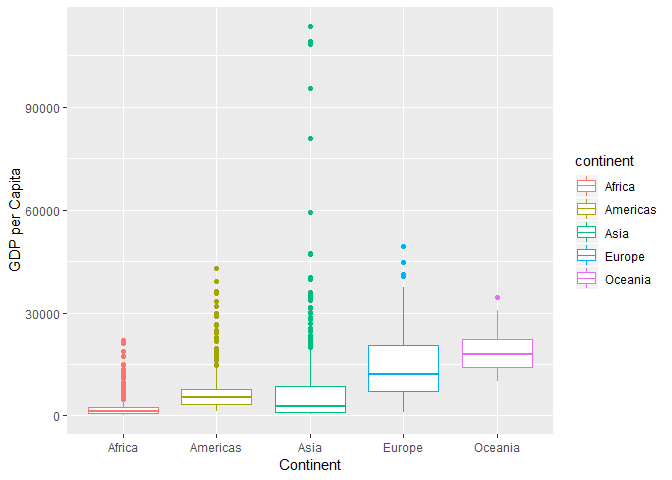
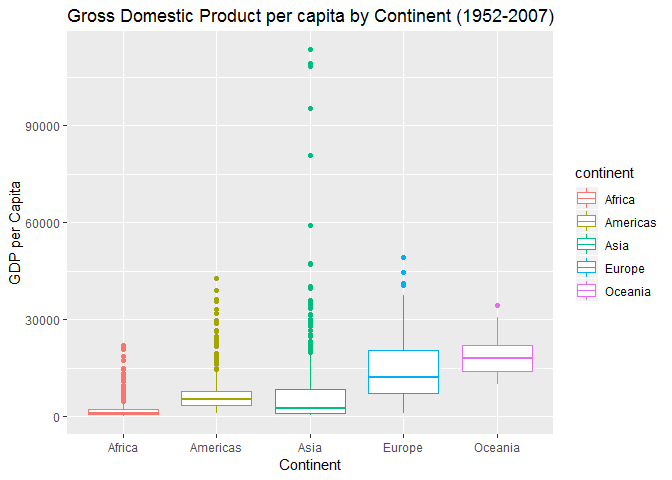
Finished 3 tasks.

diff --git a/hw03-schignel.md b/hw03-schignel.md
@@ -33,14 +33,15 @@ GDPmm <- gapminder %>% # begin pipe and assign output to variable "GDP"
 knitr::kable(GDPmm)
 ```
 
-| continent    |    max.gdp|     min.gdp|
-|:-------------|----------:|-----------:|
-| Africa       |   21951.21|    241.1659|
-| Americas     |   42951.65|   1201.6372|
-| Asia         |  113523.13|    331.0000|
-| Europe       |   49357.19|    973.5332|
-| Oceania      |   34435.37|  10039.5956|
-| Plot using a |   barchart|            |
+| continent |    max.gdp|     min.gdp|
+|:----------|----------:|-----------:|
+| Africa    |   21951.21|    241.1659|
+| Americas  |   42951.65|   1201.6372|
+| Asia      |  113523.13|    331.0000|
+| Europe    |   49357.19|    973.5332|
+| Oceania   |   34435.37|  10039.5956|
+
+Plot using a barchart
 
 ``` r
 ggplot(GDPmm, aes(continent, max.gdp))+
@@ -71,17 +72,16 @@ GDP_spread <- gapminder %>%
             var.gdp = var(gdpPercap),
             sd.gdp = sd(gdpPercap)
             )
-GDP_spread
+knitr::kable(GDP_spread)
 ```
 
-    ## # A tibble: 5 x 4
-    ##   continent mean.gdp    var.gdp sd.gdp
-    ##   <fct>        <dbl>      <dbl>  <dbl>
-    ## 1 Africa       2194.   7997187.  2828.
-    ## 2 Americas     7136.  40918591.  6397.
-    ## 3 Asia         7902. 197272506. 14045.
-    ## 4 Europe      14469.  87520020.  9355.
-    ## 5 Oceania     18622.  40436669.  6359.
+| continent |   mean.gdp|    var.gdp|     sd.gdp|
+|:----------|----------:|----------:|----------:|
+| Africa    |   2193.755|    7997187|   2827.930|
+| Americas  |   7136.110|   40918591|   6396.764|
+| Asia      |   7902.150|  197272506|  14045.373|
+| Europe    |  14469.476|   87520020|   9355.213|
+| Oceania   |  18621.609|   40436669|   6358.983|
 
 ``` r
 gapminder %>% 
@@ -89,7 +89,8 @@ gapminder %>%
   ggplot(aes(continent, gdpPercap)) +
   geom_boxplot(aes(color = continent))+
   xlab("Continent")+
-  ylab("GDP per Capita")
+  ylab("GDP per Capita")+
+  ggtitle("Gross Domestic Product per capita by Continent (1952-2007)")
 ```
 
 ![](hw03-schignel_files/figure-markdown_github/boxplot-1.png)
@@ -99,11 +100,104 @@ However, a violin plot will provide a better sense of the spread:
 ``` r
 gapminder %>% 
   group_by(continent) %>% 
-  ggplot(aes(continent, gdpPercap)) +
+  ggplot(aes(continent, gdpPercap))+
   geom_jitter(aes(color = continent, alpha=0.1))+
   geom_violin(aes(color = continent))+
   xlab("Continent")+
-  ylab("GDP per Capita")
+  ylab("GDP per capita")+
+  ggtitle("Gross Domestic Product per capita by Continent (1952-2007)")
 ```
 
 ![](hw03-schignel_files/figure-markdown_github/violin-1.png)
+
+Here we see that GDP per capita varies widely within continents. This is particularly true for Asia, which has a far more extreme range than any of the other continents.
+
+### 3. How is life expectancy changing over time on different continents?
+
+For this question, we will first:
+
+``` r
+lexp <- gapminder %>% 
+  group_by(continent, year) %>%
+  summarize(mean.lexp = mean(lifeExp)) %>% 
+  arrange(year)
+knitr::kable(lexp)  
+```
+
+| continent |  year|  mean.lexp|
+|:----------|-----:|----------:|
+| Africa    |  1952|   39.13550|
+| Americas  |  1952|   53.27984|
+| Asia      |  1952|   46.31439|
+| Europe    |  1952|   64.40850|
+| Oceania   |  1952|   69.25500|
+| Africa    |  1957|   41.26635|
+| Americas  |  1957|   55.96028|
+| Asia      |  1957|   49.31854|
+| Europe    |  1957|   66.70307|
+| Oceania   |  1957|   70.29500|
+| Africa    |  1962|   43.31944|
+| Americas  |  1962|   58.39876|
+| Asia      |  1962|   51.56322|
+| Europe    |  1962|   68.53923|
+| Oceania   |  1962|   71.08500|
+| Africa    |  1967|   45.33454|
+| Americas  |  1967|   60.41092|
+| Asia      |  1967|   54.66364|
+| Europe    |  1967|   69.73760|
+| Oceania   |  1967|   71.31000|
+| Africa    |  1972|   47.45094|
+| Americas  |  1972|   62.39492|
+| Asia      |  1972|   57.31927|
+| Europe    |  1972|   70.77503|
+| Oceania   |  1972|   71.91000|
+| Africa    |  1977|   49.58042|
+| Americas  |  1977|   64.39156|
+| Asia      |  1977|   59.61056|
+| Europe    |  1977|   71.93777|
+| Oceania   |  1977|   72.85500|
+| Africa    |  1982|   51.59287|
+| Americas  |  1982|   66.22884|
+| Asia      |  1982|   62.61794|
+| Europe    |  1982|   72.80640|
+| Oceania   |  1982|   74.29000|
+| Africa    |  1987|   53.34479|
+| Americas  |  1987|   68.09072|
+| Asia      |  1987|   64.85118|
+| Europe    |  1987|   73.64217|
+| Oceania   |  1987|   75.32000|
+| Africa    |  1992|   53.62958|
+| Americas  |  1992|   69.56836|
+| Asia      |  1992|   66.53721|
+| Europe    |  1992|   74.44010|
+| Oceania   |  1992|   76.94500|
+| Africa    |  1997|   53.59827|
+| Americas  |  1997|   71.15048|
+| Asia      |  1997|   68.02052|
+| Europe    |  1997|   75.50517|
+| Oceania   |  1997|   78.19000|
+| Africa    |  2002|   53.32523|
+| Americas  |  2002|   72.42204|
+| Asia      |  2002|   69.23388|
+| Europe    |  2002|   76.70060|
+| Oceania   |  2002|   79.74000|
+| Africa    |  2007|   54.80604|
+| Americas  |  2007|   73.60812|
+| Asia      |  2007|   70.72848|
+| Europe    |  2007|   77.64860|
+| Oceania   |  2007|   80.71950|
+
+``` r
+ggplot(data = lexp, aes(x = year, y = mean.lexp))+
+  geom_line(aes(color = continent))+
+  geom_point(aes(color = continent))+
+  xlab("Year")+
+  ylab("Mean Life Expactany")+
+  ggtitle("Mean Life Expectancy by Continent (1952-2007)")
+```
+
+![](hw03-schignel_files/figure-markdown_github/unnamed-chunk-2-1.png)
+
+Here we see that on average, life expectancy has been increasing from 1952 to 2007. The one exception is Africa, which has remained relatively level from 1987 until a slight increase in 2007.
+
+Also, it is interesting to see that there are no crossing of the continenents; they each remain in the same rank as they started in.
